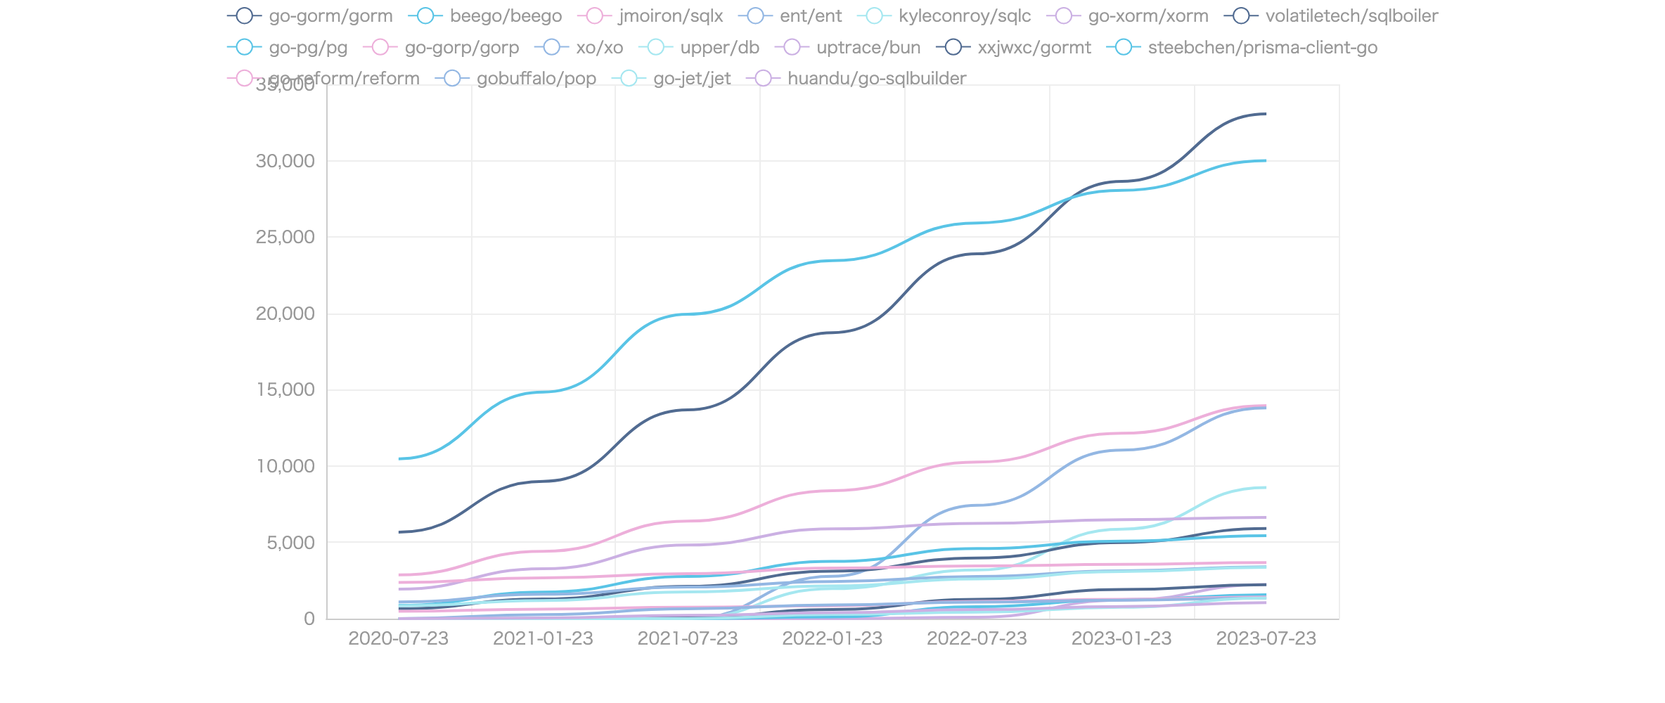
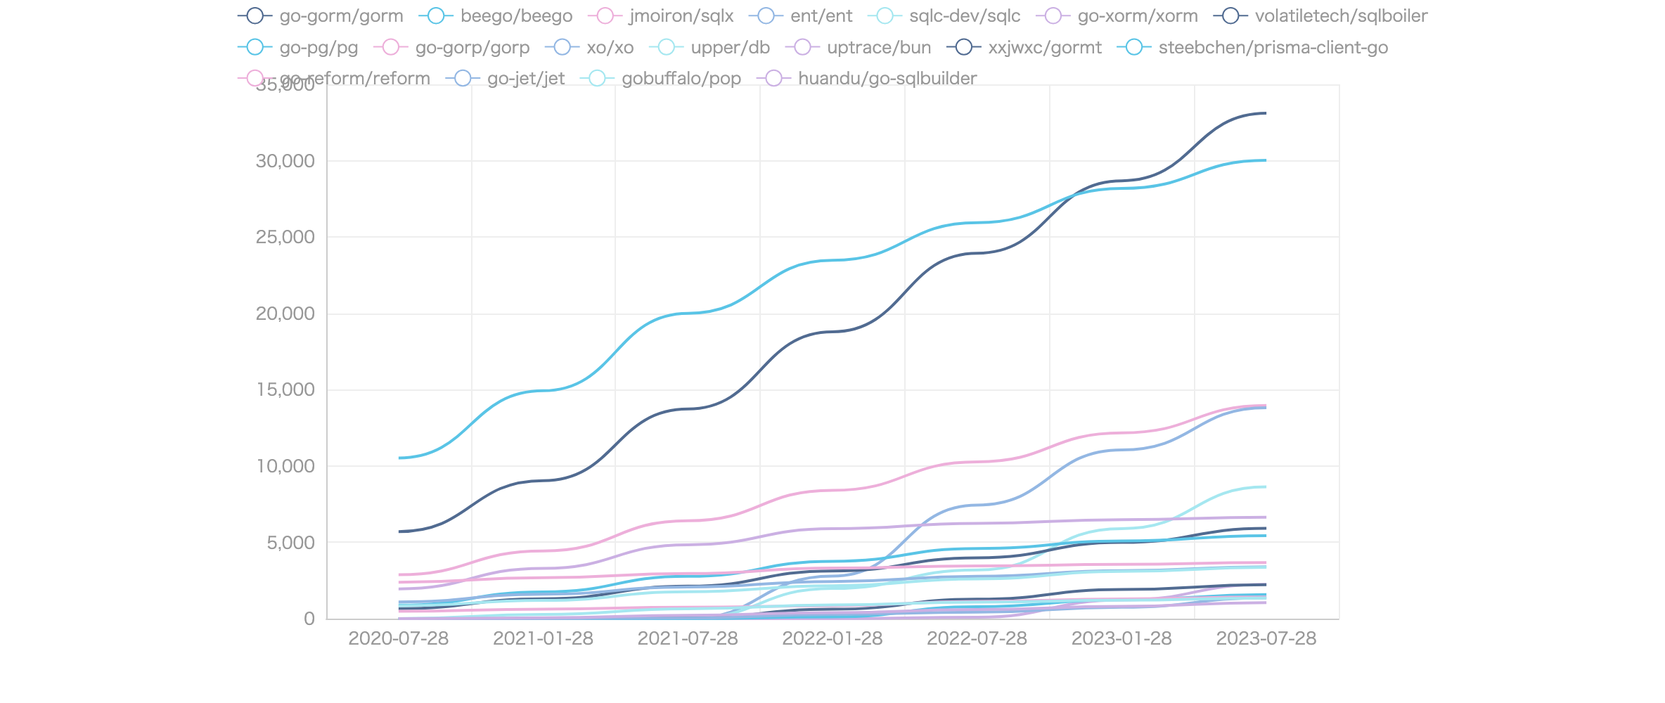
update README

diff --git a/output/orm_chart.html b/output/orm_chart.html
@@ -10,20 +10,20 @@
 
 <body>
 <div class="container">
-    <div class="item" id="EkVFdrPGSUVM" style="width:900px;height:500px;"></div>
+    <div class="item" id="KQWFXBjtTBQy" style="width:900px;height:500px;"></div>
 </div>
 
 <script type="text/javascript">
     "use strict";
-    let goecharts_EkVFdrPGSUVM = echarts.init(document.getElementById('EkVFdrPGSUVM'), "westeros");
-    let option_EkVFdrPGSUVM = {"dataset":{"source":null},"legend":{"show":true,"type":""},"series":[{"name":"go-gorm/gorm","type":"line","smooth":true,"connectNulls":false,"showSymbol":false,"waveAnimation":false,"renderLabelForZeroData":false,"selectedMode":false,"animation":false,"data":[{"value":5663,"XAxisIndex":0,"YAxisIndex":0},{"value":8994,"XAxisIndex":0,"YAxisIndex":0},{"value":13673,"XAxisIndex":0,"YAxisIndex":0},{"value":18735,"XAxisIndex":0,"YAxisIndex":0},{"value":23897,"XAxisIndex":0,"YAxisIndex":0},{"value":28643,"XAxisIndex":0,"YAxisIndex":0},{"value":33069,"XAxisIndex":0,"YAxisIndex":0}]},{"name":"beego/beego","type":"line","smooth":true,"connectNulls":false,"showSymbol":false,"waveAnimation":false,"renderLabelForZeroData":false,"selectedMode":false,"animation":false,"data":[{"value":10469,"XAxisIndex":0,"YAxisIndex":0},{"value":14844,"XAxisIndex":0,"YAxisIndex":0},{"value":19941,"XAxisIndex":0,"YAxisIndex":0},{"value":23451,"XAxisIndex":0,"YAxisIndex":0},{"value":25921,"XAxisIndex":0,"YAxisIndex":0},{"value":28058,"XAxisIndex":0,"YAxisIndex":0},{"value":30002,"XAxisIndex":0,"YAxisIndex":0}]},{"name":"jmoiron/sqlx","type":"line","smooth":true,"connectNulls":false,"showSymbol":false,"waveAnimation":false,"renderLabelForZeroData":false,"selectedMode":false,"animation":false,"data":[{"value":2865,"XAxisIndex":0,"YAxisIndex":0},{"value":4410,"XAxisIndex":0,"YAxisIndex":0},{"value":6389,"XAxisIndex":0,"YAxisIndex":0},{"value":8386,"XAxisIndex":0,"YAxisIndex":0},{"value":10256,"XAxisIndex":0,"YAxisIndex":0},{"value":12143,"XAxisIndex":0,"YAxisIndex":0},{"value":13950,"XAxisIndex":0,"YAxisIndex":0}]},{"name":"ent/ent","type":"line","smooth":true,"connectNulls":false,"showSymbol":false,"waveAnimation":false,"renderLabelForZeroData":false,"selectedMode":false,"animation":false,"data":[{"value":0,"XAxisIndex":0,"YAxisIndex":0},{"value":0,"XAxisIndex":0,"YAxisIndex":0},{"value":0,"XAxisIndex":0,"YAxisIndex":0},{"value":2777,"XAxisIndex":0,"YAxisIndex":0},{"value":7426,"XAxisIndex":0,"YAxisIndex":0},{"value":11037,"XAxisIndex":0,"YAxisIndex":0},{"value":13799,"XAxisIndex":0,"YAxisIndex":0}]},{"name":"kyleconroy/sqlc","type":"line","smooth":true,"connectNulls":false,"showSymbol":false,"waveAnimation":false,"renderLabelForZeroData":false,"selectedMode":false,"animation":false,"data":[{"value":0,"XAxisIndex":0,"YAxisIndex":0},{"value":0,"XAxisIndex":0,"YAxisIndex":0},{"value":17,"XAxisIndex":0,"YAxisIndex":0},{"value":1965,"XAxisIndex":0,"YAxisIndex":0},{"value":3184,"XAxisIndex":0,"YAxisIndex":0},{"value":5860,"XAxisIndex":0,"YAxisIndex":0},{"value":8592,"XAxisIndex":0,"YAxisIndex":0}]},{"name":"go-xorm/xorm","type":"line","smooth":true,"connectNulls":false,"showSymbol":false,"waveAnimation":false,"renderLabelForZeroData":false,"selectedMode":false,"animation":false,"data":[{"value":1935,"XAxisIndex":0,"YAxisIndex":0},{"value":3272,"XAxisIndex":0,"YAxisIndex":0},{"value":4824,"XAxisIndex":0,"YAxisIndex":0},{"value":5880,"XAxisIndex":0,"YAxisIndex":0},{"value":6236,"XAxisIndex":0,"YAxisIndex":0},{"value":6479,"XAxisIndex":0,"YAxisIndex":0},{"value":6637,"XAxisIndex":0,"YAxisIndex":0}]},{"name":"volatiletech/sqlboiler","type":"line","smooth":true,"connectNulls":false,"showSymbol":false,"waveAnimation":false,"renderLabelForZeroData":false,"selectedMode":false,"animation":false,"data":[{"value":655,"XAxisIndex":0,"YAxisIndex":0},{"value":1286,"XAxisIndex":0,"YAxisIndex":0},{"value":2114,"XAxisIndex":0,"YAxisIndex":0},{"value":3112,"XAxisIndex":0,"YAxisIndex":0},{"value":3977,"XAxisIndex":0,"YAxisIndex":0},{"value":4989,"XAxisIndex":0,"YAxisIndex":0},{"value":5906,"XAxisIndex":0,"YAxisIndex":0}]},{"name":"go-pg/pg","type":"line","smooth":true,"connectNulls":false,"showSymbol":false,"waveAnimation":false,"renderLabelForZeroData":false,"selectedMode":false,"animation":false,"data":[{"value":871,"XAxisIndex":0,"YAxisIndex":0},{"value":1734,"XAxisIndex":0,"YAxisIndex":0},{"value":2765,"XAxisIndex":0,"YAxisIndex":0},{"value":3749,"XAxisIndex":0,"YAxisIndex":0},{"value":4591,"XAxisIndex":0,"YAxisIndex":0},{"value":5079,"XAxisIndex":0,"YAxisIndex":0},{"value":5437,"XAxisIndex":0,"YAxisIndex":0}]},{"name":"go-gorp/gorp","type":"line","smooth":true,"connectNulls":false,"showSymbol":false,"waveAnimation":false,"renderLabelForZeroData":false,"selectedMode":false,"animation":false,"data":[{"value":2376,"XAxisIndex":0,"YAxisIndex":0},{"value":2675,"XAxisIndex":0,"YAxisIndex":0},{"value":2951,"XAxisIndex":0,"YAxisIndex":0},{"value":3312,"XAxisIndex":0,"YAxisIndex":0},{"value":3452,"XAxisIndex":0,"YAxisIndex":0},{"value":3557,"XAxisIndex":0,"YAxisIndex":0},{"value":3674,"XAxisIndex":0,"YAxisIndex":0}]},{"name":"xo/xo","type":"line","smooth":true,"connectNulls":false,"showSymbol":false,"waveAnimation":false,"renderLabelForZeroData":false,"selectedMode":false,"animation":false,"data":[{"value":1093,"XAxisIndex":0,"YAxisIndex":0},{"value":1598,"XAxisIndex":0,"YAxisIndex":0},{"value":2070,"XAxisIndex":0,"YAxisIndex":0},{"value":2430,"XAxisIndex":0,"YAxisIndex":0},{"value":2768,"XAxisIndex":0,"YAxisIndex":0},{"value":3137,"XAxisIndex":0,"YAxisIndex":0},{"value":3396,"XAxisIndex":0,"YAxisIndex":0}]},{"name":"upper/db","type":"line","smooth":true,"connectNulls":false,"showSymbol":false,"waveAnimation":false,"renderLabelForZeroData":false,"selectedMode":false,"animation":false,"data":[{"value":841,"XAxisIndex":0,"YAxisIndex":0},{"value":1190,"XAxisIndex":0,"YAxisIndex":0},{"value":1752,"XAxisIndex":0,"YAxisIndex":0},{"value":2147,"XAxisIndex":0,"YAxisIndex":0},{"value":2603,"XAxisIndex":0,"YAxisIndex":0},{"value":3090,"XAxisIndex":0,"YAxisIndex":0},{"value":3358,"XAxisIndex":0,"YAxisIndex":0}]},{"name":"uptrace/bun","type":"line","smooth":true,"connectNulls":false,"showSymbol":false,"waveAnimation":false,"renderLabelForZeroData":false,"selectedMode":false,"animation":false,"data":[{"value":0,"XAxisIndex":0,"YAxisIndex":0},{"value":0,"XAxisIndex":0,"YAxisIndex":0},{"value":0,"XAxisIndex":0,"YAxisIndex":0},{"value":0,"XAxisIndex":0,"YAxisIndex":0},{"value":89,"XAxisIndex":0,"YAxisIndex":0},{"value":1205,"XAxisIndex":0,"YAxisIndex":0},{"value":2236,"XAxisIndex":0,"YAxisIndex":0}]},{"name":"xxjwxc/gormt","type":"line","smooth":true,"connectNulls":false,"showSymbol":false,"waveAnimation":false,"renderLabelForZeroData":false,"selectedMode":false,"animation":false,"data":[{"value":0,"XAxisIndex":0,"YAxisIndex":0},{"value":0,"XAxisIndex":0,"YAxisIndex":0},{"value":52,"XAxisIndex":0,"YAxisIndex":0},{"value":603,"XAxisIndex":0,"YAxisIndex":0},{"value":1268,"XAxisIndex":0,"YAxisIndex":0},{"value":1910,"XAxisIndex":0,"YAxisIndex":0},{"value":2217,"XAxisIndex":0,"YAxisIndex":0}]},{"name":"steebchen/prisma-client-go","type":"line","smooth":true,"connectNulls":false,"showSymbol":false,"waveAnimation":false,"renderLabelForZeroData":false,"selectedMode":false,"animation":false,"data":[{"value":0,"XAxisIndex":0,"YAxisIndex":0},{"value":0,"XAxisIndex":0,"YAxisIndex":0},{"value":0,"XAxisIndex":0,"YAxisIndex":0},{"value":117,"XAxisIndex":0,"YAxisIndex":0},{"value":779,"XAxisIndex":0,"YAxisIndex":0},{"value":1240,"XAxisIndex":0,"YAxisIndex":0},{"value":1566,"XAxisIndex":0,"YAxisIndex":0}]},{"name":"go-reform/reform","type":"line","smooth":true,"connectNulls":false,"showSymbol":false,"waveAnimation":false,"renderLabelForZeroData":false,"selectedMode":false,"animation":false,"data":[{"value":483,"XAxisIndex":0,"YAxisIndex":0},{"value":623,"XAxisIndex":0,"YAxisIndex":0},{"value":748,"XAxisIndex":0,"YAxisIndex":0},{"value":840,"XAxisIndex":0,"YAxisIndex":0},{"value":1133,"XAxisIndex":0,"YAxisIndex":0},{"value":1266,"XAxisIndex":0,"YAxisIndex":0},{"value":1419,"XAxisIndex":0,"YAxisIndex":0}]},{"name":"gobuffalo/pop","type":"line","smooth":true,"connectNulls":false,"showSymbol":false,"waveAnimation":false,"renderLabelForZeroData":false,"selectedMode":false,"animation":false,"data":[{"value":0,"XAxisIndex":0,"YAxisIndex":0},{"value":266,"XAxisIndex":0,"YAxisIndex":0},{"value":642,"XAxisIndex":0,"YAxisIndex":0},{"value":897,"XAxisIndex":0,"YAxisIndex":0},{"value":1078,"XAxisIndex":0,"YAxisIndex":0},{"value":1211,"XAxisIndex":0,"YAxisIndex":0},{"value":1348,"XAxisIndex":0,"YAxisIndex":0}]},{"name":"go-jet/jet","type":"line","smooth":true,"connectNulls":false,"showSymbol":false,"waveAnimation":false,"renderLabelForZeroData":false,"selectedMode":false,"animation":false,"data":[{"value":0,"XAxisIndex":0,"YAxisIndex":0},{"value":0,"XAxisIndex":0,"YAxisIndex":0},{"value":0,"XAxisIndex":0,"YAxisIndex":0},{"value":280,"XAxisIndex":0,"YAxisIndex":0},{"value":421,"XAxisIndex":0,"YAxisIndex":0},{"value":748,"XAxisIndex":0,"YAxisIndex":0},{"value":1346,"XAxisIndex":0,"YAxisIndex":0}]},{"name":"huandu/go-sqlbuilder","type":"line","smooth":true,"connectNulls":false,"showSymbol":false,"waveAnimation":false,"renderLabelForZeroData":false,"selectedMode":false,"animation":false,"data":[{"value":0,"XAxisIndex":0,"YAxisIndex":0},{"value":50,"XAxisIndex":0,"YAxisIndex":0},{"value":220,"XAxisIndex":0,"YAxisIndex":0},{"value":389,"XAxisIndex":0,"YAxisIndex":0},{"value":593,"XAxisIndex":0,"YAxisIndex":0},{"value":797,"XAxisIndex":0,"YAxisIndex":0},{"value":1049,"XAxisIndex":0,"YAxisIndex":0}]}],"title":{},"tooltip":{"show":false},"xAxis":[{"data":["2020-07-23","2021-01-23","2021-07-23","2022-01-23","2022-07-23","2023-01-23","2023-07-23"]}],"yAxis":[{}]}
+    let goecharts_KQWFXBjtTBQy = echarts.init(document.getElementById('KQWFXBjtTBQy'), "westeros");
+    let option_KQWFXBjtTBQy = {"dataset":{"source":null},"legend":{"show":true,"type":""},"series":[{"name":"go-gorm/gorm","type":"line","smooth":true,"connectNulls":false,"showSymbol":false,"waveAnimation":false,"renderLabelForZeroData":false,"selectedMode":false,"animation":false,"data":[{"value":5697,"XAxisIndex":0,"YAxisIndex":0},{"value":9041,"XAxisIndex":0,"YAxisIndex":0},{"value":13736,"XAxisIndex":0,"YAxisIndex":0},{"value":18792,"XAxisIndex":0,"YAxisIndex":0},{"value":23937,"XAxisIndex":0,"YAxisIndex":0},{"value":28685,"XAxisIndex":0,"YAxisIndex":0},{"value":33112,"XAxisIndex":0,"YAxisIndex":0}]},{"name":"beego/beego","type":"line","smooth":true,"connectNulls":false,"showSymbol":false,"waveAnimation":false,"renderLabelForZeroData":false,"selectedMode":false,"animation":false,"data":[{"value":10526,"XAxisIndex":0,"YAxisIndex":0},{"value":14927,"XAxisIndex":0,"YAxisIndex":0},{"value":20003,"XAxisIndex":0,"YAxisIndex":0},{"value":23474,"XAxisIndex":0,"YAxisIndex":0},{"value":25940,"XAxisIndex":0,"YAxisIndex":0},{"value":28183,"XAxisIndex":0,"YAxisIndex":0},{"value":30025,"XAxisIndex":0,"YAxisIndex":0}]},{"name":"jmoiron/sqlx","type":"line","smooth":true,"connectNulls":false,"showSymbol":false,"waveAnimation":false,"renderLabelForZeroData":false,"selectedMode":false,"animation":false,"data":[{"value":2879,"XAxisIndex":0,"YAxisIndex":0},{"value":4433,"XAxisIndex":0,"YAxisIndex":0},{"value":6409,"XAxisIndex":0,"YAxisIndex":0},{"value":8405,"XAxisIndex":0,"YAxisIndex":0},{"value":10270,"XAxisIndex":0,"YAxisIndex":0},{"value":12170,"XAxisIndex":0,"YAxisIndex":0},{"value":13965,"XAxisIndex":0,"YAxisIndex":0}]},{"name":"ent/ent","type":"line","smooth":true,"connectNulls":false,"showSymbol":false,"waveAnimation":false,"renderLabelForZeroData":false,"selectedMode":false,"animation":false,"data":[{"value":0,"XAxisIndex":0,"YAxisIndex":0},{"value":0,"XAxisIndex":0,"YAxisIndex":0},{"value":0,"XAxisIndex":0,"YAxisIndex":0},{"value":2784,"XAxisIndex":0,"YAxisIndex":0},{"value":7441,"XAxisIndex":0,"YAxisIndex":0},{"value":11058,"XAxisIndex":0,"YAxisIndex":0},{"value":13816,"XAxisIndex":0,"YAxisIndex":0}]},{"name":"sqlc-dev/sqlc","type":"line","smooth":true,"connectNulls":false,"showSymbol":false,"waveAnimation":false,"renderLabelForZeroData":false,"selectedMode":false,"animation":false,"data":[{"value":0,"XAxisIndex":0,"YAxisIndex":0},{"value":0,"XAxisIndex":0,"YAxisIndex":0},{"value":19,"XAxisIndex":0,"YAxisIndex":0},{"value":1979,"XAxisIndex":0,"YAxisIndex":0},{"value":3191,"XAxisIndex":0,"YAxisIndex":0},{"value":5898,"XAxisIndex":0,"YAxisIndex":0},{"value":8636,"XAxisIndex":0,"YAxisIndex":0}]},{"name":"go-xorm/xorm","type":"line","smooth":true,"connectNulls":false,"showSymbol":false,"waveAnimation":false,"renderLabelForZeroData":false,"selectedMode":false,"animation":false,"data":[{"value":1950,"XAxisIndex":0,"YAxisIndex":0},{"value":3297,"XAxisIndex":0,"YAxisIndex":0},{"value":4841,"XAxisIndex":0,"YAxisIndex":0},{"value":5889,"XAxisIndex":0,"YAxisIndex":0},{"value":6240,"XAxisIndex":0,"YAxisIndex":0},{"value":6483,"XAxisIndex":0,"YAxisIndex":0},{"value":6638,"XAxisIndex":0,"YAxisIndex":0}]},{"name":"volatiletech/sqlboiler","type":"line","smooth":true,"connectNulls":false,"showSymbol":false,"waveAnimation":false,"renderLabelForZeroData":false,"selectedMode":false,"animation":false,"data":[{"value":659,"XAxisIndex":0,"YAxisIndex":0},{"value":1301,"XAxisIndex":0,"YAxisIndex":0},{"value":2125,"XAxisIndex":0,"YAxisIndex":0},{"value":3122,"XAxisIndex":0,"YAxisIndex":0},{"value":3983,"XAxisIndex":0,"YAxisIndex":0},{"value":4996,"XAxisIndex":0,"YAxisIndex":0},{"value":5917,"XAxisIndex":0,"YAxisIndex":0}]},{"name":"go-pg/pg","type":"line","smooth":true,"connectNulls":false,"showSymbol":false,"waveAnimation":false,"renderLabelForZeroData":false,"selectedMode":false,"animation":false,"data":[{"value":882,"XAxisIndex":0,"YAxisIndex":0},{"value":1751,"XAxisIndex":0,"YAxisIndex":0},{"value":2770,"XAxisIndex":0,"YAxisIndex":0},{"value":3758,"XAxisIndex":0,"YAxisIndex":0},{"value":4593,"XAxisIndex":0,"YAxisIndex":0},{"value":5085,"XAxisIndex":0,"YAxisIndex":0},{"value":5438,"XAxisIndex":0,"YAxisIndex":0}]},{"name":"go-gorp/gorp","type":"line","smooth":true,"connectNulls":false,"showSymbol":false,"waveAnimation":false,"renderLabelForZeroData":false,"selectedMode":false,"animation":false,"data":[{"value":2380,"XAxisIndex":0,"YAxisIndex":0},{"value":2678,"XAxisIndex":0,"YAxisIndex":0},{"value":2955,"XAxisIndex":0,"YAxisIndex":0},{"value":3313,"XAxisIndex":0,"YAxisIndex":0},{"value":3453,"XAxisIndex":0,"YAxisIndex":0},{"value":3558,"XAxisIndex":0,"YAxisIndex":0},{"value":3674,"XAxisIndex":0,"YAxisIndex":0}]},{"name":"xo/xo","type":"line","smooth":true,"connectNulls":false,"showSymbol":false,"waveAnimation":false,"renderLabelForZeroData":false,"selectedMode":false,"animation":false,"data":[{"value":1097,"XAxisIndex":0,"YAxisIndex":0},{"value":1601,"XAxisIndex":0,"YAxisIndex":0},{"value":2075,"XAxisIndex":0,"YAxisIndex":0},{"value":2431,"XAxisIndex":0,"YAxisIndex":0},{"value":2769,"XAxisIndex":0,"YAxisIndex":0},{"value":3138,"XAxisIndex":0,"YAxisIndex":0},{"value":3397,"XAxisIndex":0,"YAxisIndex":0}]},{"name":"upper/db","type":"line","smooth":true,"connectNulls":false,"showSymbol":false,"waveAnimation":false,"renderLabelForZeroData":false,"selectedMode":false,"animation":false,"data":[{"value":843,"XAxisIndex":0,"YAxisIndex":0},{"value":1195,"XAxisIndex":0,"YAxisIndex":0},{"value":1757,"XAxisIndex":0,"YAxisIndex":0},{"value":2151,"XAxisIndex":0,"YAxisIndex":0},{"value":2606,"XAxisIndex":0,"YAxisIndex":0},{"value":3093,"XAxisIndex":0,"YAxisIndex":0},{"value":3360,"XAxisIndex":0,"YAxisIndex":0}]},{"name":"uptrace/bun","type":"line","smooth":true,"connectNulls":false,"showSymbol":false,"waveAnimation":false,"renderLabelForZeroData":false,"selectedMode":false,"animation":false,"data":[{"value":0,"XAxisIndex":0,"YAxisIndex":0},{"value":0,"XAxisIndex":0,"YAxisIndex":0},{"value":0,"XAxisIndex":0,"YAxisIndex":0},{"value":0,"XAxisIndex":0,"YAxisIndex":0},{"value":91,"XAxisIndex":0,"YAxisIndex":0},{"value":1216,"XAxisIndex":0,"YAxisIndex":0},{"value":2248,"XAxisIndex":0,"YAxisIndex":0}]},{"name":"xxjwxc/gormt","type":"line","smooth":true,"connectNulls":false,"showSymbol":false,"waveAnimation":false,"renderLabelForZeroData":false,"selectedMode":false,"animation":false,"data":[{"value":0,"XAxisIndex":0,"YAxisIndex":0},{"value":0,"XAxisIndex":0,"YAxisIndex":0},{"value":56,"XAxisIndex":0,"YAxisIndex":0},{"value":617,"XAxisIndex":0,"YAxisIndex":0},{"value":1273,"XAxisIndex":0,"YAxisIndex":0},{"value":1912,"XAxisIndex":0,"YAxisIndex":0},{"value":2218,"XAxisIndex":0,"YAxisIndex":0}]},{"name":"steebchen/prisma-client-go","type":"line","smooth":true,"connectNulls":false,"showSymbol":false,"waveAnimation":false,"renderLabelForZeroData":false,"selectedMode":false,"animation":false,"data":[{"value":0,"XAxisIndex":0,"YAxisIndex":0},{"value":0,"XAxisIndex":0,"YAxisIndex":0},{"value":0,"XAxisIndex":0,"YAxisIndex":0},{"value":119,"XAxisIndex":0,"YAxisIndex":0},{"value":784,"XAxisIndex":0,"YAxisIndex":0},{"value":1240,"XAxisIndex":0,"YAxisIndex":0},{"value":1575,"XAxisIndex":0,"YAxisIndex":0}]},{"name":"go-reform/reform","type":"line","smooth":true,"connectNulls":false,"showSymbol":false,"waveAnimation":false,"renderLabelForZeroData":false,"selectedMode":false,"animation":false,"data":[{"value":485,"XAxisIndex":0,"YAxisIndex":0},{"value":626,"XAxisIndex":0,"YAxisIndex":0},{"value":749,"XAxisIndex":0,"YAxisIndex":0},{"value":841,"XAxisIndex":0,"YAxisIndex":0},{"value":1133,"XAxisIndex":0,"YAxisIndex":0},{"value":1289,"XAxisIndex":0,"YAxisIndex":0},{"value":1419,"XAxisIndex":0,"YAxisIndex":0}]},{"name":"go-jet/jet","type":"line","smooth":true,"connectNulls":false,"showSymbol":false,"waveAnimation":false,"renderLabelForZeroData":false,"selectedMode":false,"animation":false,"data":[{"value":0,"XAxisIndex":0,"YAxisIndex":0},{"value":0,"XAxisIndex":0,"YAxisIndex":0},{"value":35,"XAxisIndex":0,"YAxisIndex":0},{"value":281,"XAxisIndex":0,"YAxisIndex":0},{"value":422,"XAxisIndex":0,"YAxisIndex":0},{"value":749,"XAxisIndex":0,"YAxisIndex":0},{"value":1357,"XAxisIndex":0,"YAxisIndex":0}]},{"name":"gobuffalo/pop","type":"line","smooth":true,"connectNulls":false,"showSymbol":false,"waveAnimation":false,"renderLabelForZeroData":false,"selectedMode":false,"animation":false,"data":[{"value":0,"XAxisIndex":0,"YAxisIndex":0},{"value":272,"XAxisIndex":0,"YAxisIndex":0},{"value":642,"XAxisIndex":0,"YAxisIndex":0},{"value":897,"XAxisIndex":0,"YAxisIndex":0},{"value":1079,"XAxisIndex":0,"YAxisIndex":0},{"value":1212,"XAxisIndex":0,"YAxisIndex":0},{"value":1352,"XAxisIndex":0,"YAxisIndex":0}]},{"name":"huandu/go-sqlbuilder","type":"line","smooth":true,"connectNulls":false,"showSymbol":false,"waveAnimation":false,"renderLabelForZeroData":false,"selectedMode":false,"animation":false,"data":[{"value":0,"XAxisIndex":0,"YAxisIndex":0},{"value":52,"XAxisIndex":0,"YAxisIndex":0},{"value":221,"XAxisIndex":0,"YAxisIndex":0},{"value":392,"XAxisIndex":0,"YAxisIndex":0},{"value":593,"XAxisIndex":0,"YAxisIndex":0},{"value":801,"XAxisIndex":0,"YAxisIndex":0},{"value":1053,"XAxisIndex":0,"YAxisIndex":0}]}],"title":{},"tooltip":{"show":false},"xAxis":[{"data":["2020-07-28","2021-01-28","2021-07-28","2022-01-28","2022-07-28","2023-01-28","2023-07-28"]}],"yAxis":[{}]}
 ;
     
-	let action_EkVFdrPGSUVM = {"areas":{},"type":""}
+	let action_KQWFXBjtTBQy = {"areas":{},"type":""}
 ;
     
-    goecharts_EkVFdrPGSUVM.setOption(option_EkVFdrPGSUVM);
- 	goecharts_EkVFdrPGSUVM.dispatchAction(action_EkVFdrPGSUVM);
+    goecharts_KQWFXBjtTBQy.setOption(option_KQWFXBjtTBQy);
+ 	goecharts_KQWFXBjtTBQy.dispatchAction(action_KQWFXBjtTBQy);
 </script>
 
 <style>

diff --git a/README.md b/README.md
@@ -4,93 +4,93 @@ If there are any other public repositories of golang orMapper, I'd be glad to he
 [![Start数チャート](output/orm_chart.jpeg)](https://ryotaroseto.github.io/star-golang-orms/output/orm_chart.html)
 | No. | Project Name | Stars | Subscribers | Forks | Open Issues | Description | Createdate | Last Update |
 | --- | ------------ | ----- | ----------- | ----- | ----------- | ----------- | ----------- | ----------- |
-| 1 | [go-gorm/gorm](https://github.com/go-gorm/gorm) | 33069 | 495 | 3641 | 224 | The fantastic ORM library for Golang, aims to be developer friendly | 2013-10-25 08:31:38 | 2023-07-23 10:14:44 |
-| 2 | [beego/beego](https://github.com/beego/beego) | 30002 | 1208 | 5603 | 12 | beego is an open-source, high-performance web framework for the Go programming language. | 2012-02-29 02:32:08 | 2023-07-23 10:11:22 |
-| 3 | [jmoiron/sqlx](https://github.com/jmoiron/sqlx) | 13950 | 197 | 1031 | 328 | general purpose extensions to golang's database/sql | 2013-01-28 19:40:00 | 2023-07-23 06:32:27 |
-| 4 | [ent/ent](https://github.com/ent/ent) | 13799 | 148 | 827 | 326 | An entity framework for Go | 2019-06-12 22:53:55 | 2023-07-23 14:06:15 |
-| 5 | [kyleconroy/sqlc](https://github.com/kyleconroy/sqlc) | 8592 | 70 | 583 | 377 | Generate type-safe code from SQL | 2019-06-21 21:11:35 | 2023-07-23 14:08:11 |
-| 6 | [go-xorm/xorm](https://github.com/go-xorm/xorm) | 6637 | 266 | 772 | 307 | Simple and Powerful ORM for Go, support mysql,postgres,tidb,sqlite3,mssql,oracle, Moved to https://gitea.com/xorm/xorm | 2013-05-09 02:35:04 | 2023-07-20 16:07:48 |
-| 7 | [volatiletech/sqlboiler](https://github.com/volatiletech/sqlboiler) | 5906 | 74 | 512 | 85 | Generate a Go ORM tailored to your database schema. | 2016-02-21 06:18:25 | 2023-07-22 23:19:13 |
-| 8 | [go-pg/pg](https://github.com/go-pg/pg) | 5437 | 90 | 397 | 115 | Golang ORM with focus on PostgreSQL features and performance | 2013-04-24 12:31:41 | 2023-07-21 01:40:08 |
+| 1 | [go-gorm/gorm](https://github.com/go-gorm/gorm) | 33112 | 496 | 3646 | 206 | The fantastic ORM library for Golang, aims to be developer friendly | 2013-10-25 08:31:38 | 2023-07-27 14:19:41 |
+| 2 | [beego/beego](https://github.com/beego/beego) | 30025 | 1208 | 5605 | 12 | beego is an open-source, high-performance web framework for the Go programming language. | 2012-02-29 02:32:08 | 2023-07-27 10:35:58 |
+| 3 | [jmoiron/sqlx](https://github.com/jmoiron/sqlx) | 13965 | 197 | 1034 | 330 | general purpose extensions to golang's database/sql | 2013-01-28 19:40:00 | 2023-07-27 12:13:19 |
+| 4 | [ent/ent](https://github.com/ent/ent) | 13816 | 148 | 826 | 327 | An entity framework for Go | 2019-06-12 22:53:55 | 2023-07-27 11:31:18 |
+| 5 | [sqlc-dev/sqlc](https://github.com/sqlc-dev/sqlc) | 8636 | 71 | 584 | 356 | Generate type-safe code from SQL | 2019-06-21 21:11:35 | 2023-07-27 14:35:22 |
+| 6 | [go-xorm/xorm](https://github.com/go-xorm/xorm) | 6638 | 266 | 772 | 307 | Simple and Powerful ORM for Go, support mysql,postgres,tidb,sqlite3,mssql,oracle, Moved to https://gitea.com/xorm/xorm | 2013-05-09 02:35:04 | 2023-07-25 07:05:19 |
+| 7 | [volatiletech/sqlboiler](https://github.com/volatiletech/sqlboiler) | 5917 | 74 | 513 | 79 | Generate a Go ORM tailored to your database schema. | 2016-02-21 06:18:25 | 2023-07-27 09:26:37 |
+| 8 | [go-pg/pg](https://github.com/go-pg/pg) | 5438 | 90 | 398 | 115 | Golang ORM with focus on PostgreSQL features and performance | 2013-04-24 12:31:41 | 2023-07-27 05:47:35 |
 | 9 | [go-gorp/gorp](https://github.com/go-gorp/gorp) | 3674 | 108 | 380 | 145 | Go Relational Persistence - an ORM-ish library for Go | 2012-01-04 19:50:09 | 2023-07-22 14:00:08 |
-| 10 | [xo/xo](https://github.com/xo/xo) | 3396 | 71 | 307 | 42 | Command line tool to generate idiomatic Go code for SQL databases supporting PostgreSQL, MySQL, SQLite, Oracle, and Microsoft SQL Server | 2016-02-05 10:22:20 | 2023-07-23 12:50:22 |
-| 11 | [upper/db](https://github.com/upper/db) | 3358 | 63 | 238 | 158 | Data access layer for PostgreSQL, CockroachDB, MySQL, SQLite and MongoDB with ORM-like features. | 2013-10-23 02:04:36 | 2023-07-22 17:30:08 |
-| 12 | [uptrace/bun](https://github.com/uptrace/bun) | 2236 | 26 | 160 | 113 | SQL-first Golang ORM | 2021-05-03 11:40:52 | 2023-07-22 14:06:03 |
-| 13 | [xxjwxc/gormt](https://github.com/xxjwxc/gormt) | 2217 | 22 | 340 | 57 | database to golang struct | 2019-05-05 13:10:26 | 2023-07-21 12:01:18 |
-| 14 | [steebchen/prisma-client-go](https://github.com/steebchen/prisma-client-go) | 1566 | 26 | 84 | 107 | Prisma Client Go is an auto-generated and fully type-safe database client | 2019-09-24 12:17:03 | 2023-07-23 02:45:14 |
+| 10 | [xo/xo](https://github.com/xo/xo) | 3397 | 71 | 307 | 42 | Command line tool to generate idiomatic Go code for SQL databases supporting PostgreSQL, MySQL, SQLite, Oracle, and Microsoft SQL Server | 2016-02-05 10:22:20 | 2023-07-24 07:14:48 |
+| 11 | [upper/db](https://github.com/upper/db) | 3360 | 63 | 238 | 158 | Data access layer for PostgreSQL, CockroachDB, MySQL, SQLite and MongoDB with ORM-like features. | 2013-10-23 02:04:36 | 2023-07-25 20:42:31 |
+| 12 | [uptrace/bun](https://github.com/uptrace/bun) | 2248 | 26 | 161 | 116 | SQL-first Golang ORM | 2021-05-03 11:40:52 | 2023-07-27 07:46:11 |
+| 13 | [xxjwxc/gormt](https://github.com/xxjwxc/gormt) | 2218 | 22 | 341 | 57 | database to golang struct | 2019-05-05 13:10:26 | 2023-07-25 07:11:02 |
+| 14 | [steebchen/prisma-client-go](https://github.com/steebchen/prisma-client-go) | 1575 | 27 | 84 | 104 | Prisma Client Go is an auto-generated and fully type-safe database client | 2019-09-24 12:17:03 | 2023-07-26 12:19:28 |
 | 15 | [go-reform/reform](https://github.com/go-reform/reform) | 1419 | 25 | 72 | 86 | A better ORM for Go, based on non-empty interfaces and code generation. | 2016-02-25 09:41:09 | 2023-07-22 21:17:40 |
-| 16 | [gobuffalo/pop](https://github.com/gobuffalo/pop) | 1348 | 23 | 238 | 98 | A Tasty Treat For All Your Database Needs | 2018-02-07 21:13:46 | 2023-07-19 13:16:52 |
-| 17 | [go-jet/jet](https://github.com/go-jet/jet) | 1346 | 20 | 80 | 27 | Type safe SQL builder with code generation and automatic query result data mapping | 2019-03-02 11:06:23 | 2023-07-21 09:08:22 |
-| 18 | [huandu/go-sqlbuilder](https://github.com/huandu/go-sqlbuilder) | 1049 | 12 | 99 | 4 | A flexible and powerful SQL string builder library plus a zero-config ORM. | 2017-12-27 16:37:48 | 2023-07-22 13:31:36 |
+| 16 | [go-jet/jet](https://github.com/go-jet/jet) | 1357 | 20 | 82 | 26 | Type safe SQL builder with code generation and automatic query result data mapping | 2019-03-02 11:06:23 | 2023-07-26 13:46:20 |
+| 17 | [gobuffalo/pop](https://github.com/gobuffalo/pop) | 1352 | 23 | 238 | 99 | A Tasty Treat For All Your Database Needs | 2018-02-07 21:13:46 | 2023-07-27 08:12:26 |
+| 18 | [huandu/go-sqlbuilder](https://github.com/huandu/go-sqlbuilder) | 1053 | 12 | 99 | 6 | A flexible and powerful SQL string builder library plus a zero-config ORM. | 2017-12-27 16:37:48 | 2023-07-27 08:08:45 |
 ## [go-gorm/gorm](https://github.com/go-gorm/gorm)
-| 2020-07-23 | 2021-01-23 | 2021-07-23 | 2022-01-23 | 2022-07-23 | 2023-01-23 | 2023-07-23 |
+| 2020-07-28 | 2021-01-28 | 2021-07-28 | 2022-01-28 | 2022-07-28 | 2023-01-28 | 2023-07-28 |
 | --- | --- | --- | --- | --- | --- | --- |
-| 5663 | 8994 | 13673 | 18735 | 23897 | 28643 | 33069 |
+| 5697 | 9041 | 13736 | 18792 | 23937 | 28685 | 33112 |
 ## [beego/beego](https://github.com/beego/beego)
-| 2020-07-23 | 2021-01-23 | 2021-07-23 | 2022-01-23 | 2022-07-23 | 2023-01-23 | 2023-07-23 |
+| 2020-07-28 | 2021-01-28 | 2021-07-28 | 2022-01-28 | 2022-07-28 | 2023-01-28 | 2023-07-28 |
 | --- | --- | --- | --- | --- | --- | --- |
-| 10469 | 14844 | 19941 | 23451 | 25921 | 28058 | 30002 |
+| 10526 | 14927 | 20003 | 23474 | 25940 | 28183 | 30025 |
 ## [jmoiron/sqlx](https://github.com/jmoiron/sqlx)
-| 2020-07-23 | 2021-01-23 | 2021-07-23 | 2022-01-23 | 2022-07-23 | 2023-01-23 | 2023-07-23 |
+| 2020-07-28 | 2021-01-28 | 2021-07-28 | 2022-01-28 | 2022-07-28 | 2023-01-28 | 2023-07-28 |
 | --- | --- | --- | --- | --- | --- | --- |
-| 2865 | 4410 | 6389 | 8386 | 10256 | 12143 | 13950 |
+| 2879 | 4433 | 6409 | 8405 | 10270 | 12170 | 13965 |
 ## [ent/ent](https://github.com/ent/ent)
-| 2020-07-23 | 2021-01-23 | 2021-07-23 | 2022-01-23 | 2022-07-23 | 2023-01-23 | 2023-07-23 |
+| 2020-07-28 | 2021-01-28 | 2021-07-28 | 2022-01-28 | 2022-07-28 | 2023-01-28 | 2023-07-28 |
 | --- | --- | --- | --- | --- | --- | --- |
-| - | - | - | 2777 | 7426 | 11037 | 13799 |
-## [kyleconroy/sqlc](https://github.com/kyleconroy/sqlc)
-| 2020-07-23 | 2021-01-23 | 2021-07-23 | 2022-01-23 | 2022-07-23 | 2023-01-23 | 2023-07-23 |
+| - | - | - | 2784 | 7441 | 11058 | 13816 |
+## [sqlc-dev/sqlc](https://github.com/sqlc-dev/sqlc)
+| 2020-07-28 | 2021-01-28 | 2021-07-28 | 2022-01-28 | 2022-07-28 | 2023-01-28 | 2023-07-28 |
 | --- | --- | --- | --- | --- | --- | --- |
-| - | - | 17 | 1965 | 3184 | 5860 | 8592 |
+| - | - | 19 | 1979 | 3191 | 5898 | 8636 |
 ## [go-xorm/xorm](https://github.com/go-xorm/xorm)
-| 2020-07-23 | 2021-01-23 | 2021-07-23 | 2022-01-23 | 2022-07-23 | 2023-01-23 | 2023-07-23 |
+| 2020-07-28 | 2021-01-28 | 2021-07-28 | 2022-01-28 | 2022-07-28 | 2023-01-28 | 2023-07-28 |
 | --- | --- | --- | --- | --- | --- | --- |
-| 1935 | 3272 | 4824 | 5880 | 6236 | 6479 | 6637 |
+| 1950 | 3297 | 4841 | 5889 | 6240 | 6483 | 6638 |
 ## [volatiletech/sqlboiler](https://github.com/volatiletech/sqlboiler)
-| 2020-07-23 | 2021-01-23 | 2021-07-23 | 2022-01-23 | 2022-07-23 | 2023-01-23 | 2023-07-23 |
+| 2020-07-28 | 2021-01-28 | 2021-07-28 | 2022-01-28 | 2022-07-28 | 2023-01-28 | 2023-07-28 |
 | --- | --- | --- | --- | --- | --- | --- |
-| 655 | 1286 | 2114 | 3112 | 3977 | 4989 | 5906 |
+| 659 | 1301 | 2125 | 3122 | 3983 | 4996 | 5917 |
 ## [go-pg/pg](https://github.com/go-pg/pg)
-| 2020-07-23 | 2021-01-23 | 2021-07-23 | 2022-01-23 | 2022-07-23 | 2023-01-23 | 2023-07-23 |
+| 2020-07-28 | 2021-01-28 | 2021-07-28 | 2022-01-28 | 2022-07-28 | 2023-01-28 | 2023-07-28 |
 | --- | --- | --- | --- | --- | --- | --- |
-| 871 | 1734 | 2765 | 3749 | 4591 | 5079 | 5437 |
+| 882 | 1751 | 2770 | 3758 | 4593 | 5085 | 5438 |
 ## [go-gorp/gorp](https://github.com/go-gorp/gorp)
-| 2020-07-23 | 2021-01-23 | 2021-07-23 | 2022-01-23 | 2022-07-23 | 2023-01-23 | 2023-07-23 |
+| 2020-07-28 | 2021-01-28 | 2021-07-28 | 2022-01-28 | 2022-07-28 | 2023-01-28 | 2023-07-28 |
 | --- | --- | --- | --- | --- | --- | --- |
-| 2376 | 2675 | 2951 | 3312 | 3452 | 3557 | 3674 |
+| 2380 | 2678 | 2955 | 3313 | 3453 | 3558 | 3674 |
 ## [xo/xo](https://github.com/xo/xo)
-| 2020-07-23 | 2021-01-23 | 2021-07-23 | 2022-01-23 | 2022-07-23 | 2023-01-23 | 2023-07-23 |
+| 2020-07-28 | 2021-01-28 | 2021-07-28 | 2022-01-28 | 2022-07-28 | 2023-01-28 | 2023-07-28 |
 | --- | --- | --- | --- | --- | --- | --- |
-| 1093 | 1598 | 2070 | 2430 | 2768 | 3137 | 3396 |
+| 1097 | 1601 | 2075 | 2431 | 2769 | 3138 | 3397 |
 ## [upper/db](https://github.com/upper/db)
-| 2020-07-23 | 2021-01-23 | 2021-07-23 | 2022-01-23 | 2022-07-23 | 2023-01-23 | 2023-07-23 |
+| 2020-07-28 | 2021-01-28 | 2021-07-28 | 2022-01-28 | 2022-07-28 | 2023-01-28 | 2023-07-28 |
 | --- | --- | --- | --- | --- | --- | --- |
-| 841 | 1190 | 1752 | 2147 | 2603 | 3090 | 3358 |
+| 843 | 1195 | 1757 | 2151 | 2606 | 3093 | 3360 |
 ## [uptrace/bun](https://github.com/uptrace/bun)
-| 2020-07-23 | 2021-01-23 | 2021-07-23 | 2022-01-23 | 2022-07-23 | 2023-01-23 | 2023-07-23 |
+| 2020-07-28 | 2021-01-28 | 2021-07-28 | 2022-01-28 | 2022-07-28 | 2023-01-28 | 2023-07-28 |
 | --- | --- | --- | --- | --- | --- | --- |
-| - | - | - | - | 89 | 1205 | 2236 |
+| - | - | - | - | 91 | 1216 | 2248 |
 ## [xxjwxc/gormt](https://github.com/xxjwxc/gormt)
-| 2020-07-23 | 2021-01-23 | 2021-07-23 | 2022-01-23 | 2022-07-23 | 2023-01-23 | 2023-07-23 |
+| 2020-07-28 | 2021-01-28 | 2021-07-28 | 2022-01-28 | 2022-07-28 | 2023-01-28 | 2023-07-28 |
 | --- | --- | --- | --- | --- | --- | --- |
-| - | - | 52 | 603 | 1268 | 1910 | 2217 |
+| - | - | 56 | 617 | 1273 | 1912 | 2218 |
 ## [steebchen/prisma-client-go](https://github.com/steebchen/prisma-client-go)
-| 2020-07-23 | 2021-01-23 | 2021-07-23 | 2022-01-23 | 2022-07-23 | 2023-01-23 | 2023-07-23 |
+| 2020-07-28 | 2021-01-28 | 2021-07-28 | 2022-01-28 | 2022-07-28 | 2023-01-28 | 2023-07-28 |
 | --- | --- | --- | --- | --- | --- | --- |
-| - | - | - | 117 | 779 | 1240 | 1566 |
+| - | - | - | 119 | 784 | 1240 | 1575 |
 ## [go-reform/reform](https://github.com/go-reform/reform)
-| 2020-07-23 | 2021-01-23 | 2021-07-23 | 2022-01-23 | 2022-07-23 | 2023-01-23 | 2023-07-23 |
+| 2020-07-28 | 2021-01-28 | 2021-07-28 | 2022-01-28 | 2022-07-28 | 2023-01-28 | 2023-07-28 |
 | --- | --- | --- | --- | --- | --- | --- |
-| 483 | 623 | 748 | 840 | 1133 | 1266 | 1419 |
-## [gobuffalo/pop](https://github.com/gobuffalo/pop)
-| 2020-07-23 | 2021-01-23 | 2021-07-23 | 2022-01-23 | 2022-07-23 | 2023-01-23 | 2023-07-23 |
-| --- | --- | --- | --- | --- | --- | --- |
-| - | 266 | 642 | 897 | 1078 | 1211 | 1348 |
+| 485 | 626 | 749 | 841 | 1133 | 1289 | 1419 |
 ## [go-jet/jet](https://github.com/go-jet/jet)
-| 2020-07-23 | 2021-01-23 | 2021-07-23 | 2022-01-23 | 2022-07-23 | 2023-01-23 | 2023-07-23 |
+| 2020-07-28 | 2021-01-28 | 2021-07-28 | 2022-01-28 | 2022-07-28 | 2023-01-28 | 2023-07-28 |
 | --- | --- | --- | --- | --- | --- | --- |
-| - | - | - | 280 | 421 | 748 | 1346 |
+| - | - | 35 | 281 | 422 | 749 | 1357 |
+## [gobuffalo/pop](https://github.com/gobuffalo/pop)
+| 2020-07-28 | 2021-01-28 | 2021-07-28 | 2022-01-28 | 2022-07-28 | 2023-01-28 | 2023-07-28 |
+| --- | --- | --- | --- | --- | --- | --- |
+| - | 272 | 642 | 897 | 1079 | 1212 | 1352 |
 ## [huandu/go-sqlbuilder](https://github.com/huandu/go-sqlbuilder)
-| 2020-07-23 | 2021-01-23 | 2021-07-23 | 2022-01-23 | 2022-07-23 | 2023-01-23 | 2023-07-23 |
+| 2020-07-28 | 2021-01-28 | 2021-07-28 | 2022-01-28 | 2022-07-28 | 2023-01-28 | 2023-07-28 |
 | --- | --- | --- | --- | --- | --- | --- |
-| - | 50 | 220 | 389 | 593 | 797 | 1049 |
+| - | 52 | 221 | 392 | 593 | 801 | 1053 |
